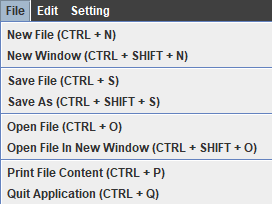
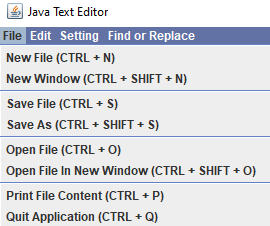
Removed border, and added dracula style

diff --git a/src/editor/TextEditor.java b/src/editor/TextEditor.java
@@ -7,6 +7,7 @@ import editor.menu.FindReplace;
 import editor.menu.SettingMenu;
 import editor.textarea.TextEditorArea;
 
+import javax.swing.JButton;
 import javax.swing.JFrame;
 import javax.swing.JMenuBar;
 import javax.swing.JPanel;
@@ -52,7 +53,6 @@ public final class TextEditor extends JFrame {
                 }
             }
         });
-
         final JPanel panel = this.createJPanel(textArea);
 
         this.add(this.createScrollPane(panel));
@@ -75,7 +75,11 @@ public final class TextEditor extends JFrame {
         menuBar.add(new EditMenu(textArea));
         menuBar.add(new SettingMenu(textArea, panel));
         menuBar.add(new FindReplace(textArea));
-        menuBar.setBackground(TEXT_EDITOR_COLOR.BAR_COLOR);
+        menuBar.setBackground(TEXT_EDITOR_COLOR.DRACULA_MENU_COLOR);
+
+        menuBar.setBorder(null);
+
+        menuBar.setBorderPainted(false);
 
         return menuBar;
     }
@@ -84,9 +88,12 @@ public final class TextEditor extends JFrame {
         final JPanel panel = new JPanel(new BorderLayout());
 
         panel.setCursor(Cursor.getPredefinedCursor(Cursor.TEXT_CURSOR));
-        panel.setBackground(TEXT_EDITOR_COLOR.TEXT_AREA_COLOR);
+        panel.setBackground(TEXT_EDITOR_COLOR.DRACULA_BACKGROUND_COLOR);
+        textArea.setBackground(TEXT_EDITOR_COLOR.DRACULA_BACKGROUND_COLOR);
+        textArea.setForeground(TEXT_EDITOR_COLOR.DRACULA_FONT_COLOR);
         panel.add(textArea, BorderLayout.WEST);
-        panel.setOpaque(true);
+
+        panel.setBorder(null);
 
         return panel;
     }
@@ -94,18 +101,49 @@ public final class TextEditor extends JFrame {
     private JScrollPane createScrollPane(final JPanel panel) {
         final JScrollPane scrollPane = new JScrollPane(panel, JScrollPane.VERTICAL_SCROLLBAR_AS_NEEDED, JScrollPane.HORIZONTAL_SCROLLBAR_AS_NEEDED);
 
+        scrollPane.getHorizontalScrollBar().setBackground(TEXT_EDITOR_COLOR.BOTTOM_PANEL_COLOR);
+        scrollPane.getVerticalScrollBar().setBackground(TEXT_EDITOR_COLOR.BOTTOM_PANEL_COLOR);
+
         scrollPane.getVerticalScrollBar().setUI(new BasicScrollBarUI() {
             @Override
             protected void configureScrollBarColors(){
                 this.thumbColor = TEXT_EDITOR_COLOR.SCROLL_BAR_THUMB_COLOR;
             }
+            @Override
+            protected JButton createDecreaseButton(int orientation) {
+                JButton button = super.createDecreaseButton(orientation);
+                button.setBackground(TEXT_EDITOR_COLOR.BOTTOM_PANEL_COLOR);
+                return button;
+            }
+            @Override
+            protected JButton createIncreaseButton(int orientation) {
+                JButton button = super.createIncreaseButton(orientation);
+                button.setBackground(TEXT_EDITOR_COLOR.BOTTOM_PANEL_COLOR);
+                return button;
+            }
+
         });
         scrollPane.getHorizontalScrollBar().setUI(new BasicScrollBarUI() {
             @Override
             protected void configureScrollBarColors(){
                 this.thumbColor = TEXT_EDITOR_COLOR.SCROLL_BAR_THUMB_COLOR;
             }
+            @Override
+            protected JButton createDecreaseButton(int orientation) {
+                JButton button = super.createDecreaseButton(orientation);
+                button.setBackground(TEXT_EDITOR_COLOR.BOTTOM_PANEL_COLOR);
+                return button;
+            }
+
+            @Override
+            protected JButton createIncreaseButton(int orientation) {
+                JButton button = super.createIncreaseButton(orientation);
+                button.setBackground(TEXT_EDITOR_COLOR.BOTTOM_PANEL_COLOR);
+                return button;
+            }
         });
+
+        scrollPane.setBorder(null);
 
         return scrollPane;
     }

diff --git a/src/editor/TextEditorColor.java b/src/editor/TextEditorColor.java
@@ -6,8 +6,10 @@ public enum TextEditorColor {
 
     TEXT_EDITOR_COLOR;
 
-    public final Color TEXT_AREA_COLOR = Color.WHITE;
-    public final Color BAR_COLOR = Color.DARK_GRAY;
+    public final Color BOTTOM_PANEL_COLOR = Color.DARK_GRAY;
     public final Color SCROLL_BAR_THUMB_COLOR = Color.GRAY;
     public final Color BAR_FONT_COLOR = Color.WHITE;
+    public final Color DRACULA_BACKGROUND_COLOR = new Color(40, 42, 54);
+    public final Color DRACULA_FONT_COLOR = new Color(80, 250, 123);
+    public final Color DRACULA_MENU_COLOR = new Color(98, 114, 164);
 }

diff --git a/src/editor/textarea/TextEditorArea.java b/src/editor/textarea/TextEditorArea.java
@@ -64,7 +64,7 @@ public final class TextEditorArea extends JTextArea {
         this.setText(this.currentContent);
         this.currentFilePath = currentFilePath;
         this.textEditorSearch = null;
-        this.setFont(new Font("Times New Roman", Font.PLAIN, DEFAULT_FONT_SIZE));
+        this.setFont(new Font("Consolas", Font.PLAIN, DEFAULT_FONT_SIZE));
         this.textEditor = textEditor;
 
         this.textEditor.updateCursorPosition(this.currentContent.split("\n").length,1);

diff --git a/src/editor/bottompanel/BottomPanel.java b/src/editor/bottompanel/BottomPanel.java
@@ -13,7 +13,7 @@ public final class BottomPanel extends JPanel {
     public BottomPanel() {
         this.label = this.cursorPosition();
         this.add(this.label);
-        this.setBackground(TEXT_EDITOR_COLOR.BAR_COLOR);
+        this.setBackground(TEXT_EDITOR_COLOR.BOTTOM_PANEL_COLOR);
         this.setCursor(Cursor.getPredefinedCursor(Cursor.DEFAULT_CURSOR));
     }
 

diff --git a/src/editor/menu/AbstractMenu.java b/src/editor/menu/AbstractMenu.java
@@ -14,6 +14,7 @@ public abstract class AbstractMenu extends JMenu {
         super(title);
         this.textArea = textArea;
         this.setForeground(TEXT_EDITOR_COLOR.BAR_FONT_COLOR);
+        this.setBorder(null);
     }
 
     protected final TextEditorArea getTextArea() { return this.textArea; }
